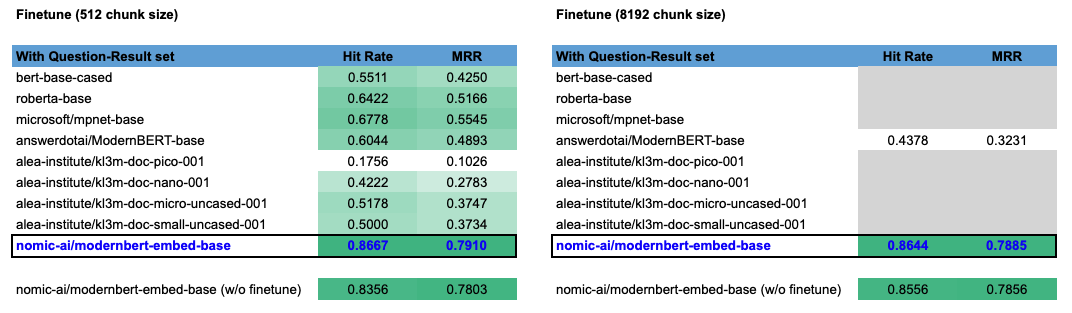
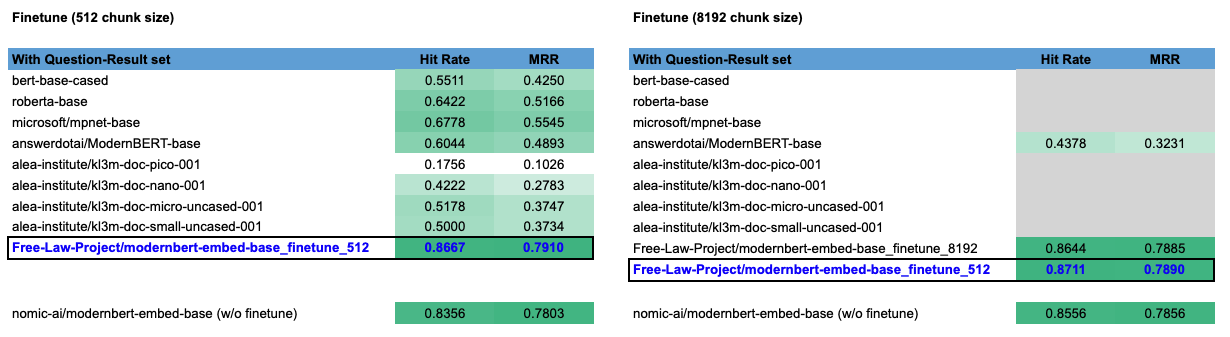
update_finetune_doc

diff --git a/README.md b/README.md
@@ -1,5 +1,5 @@
 # CourtListener Semantic Search Documentation
-As of March 3rd, 2025
+As of March 5th, 2025
 
 ## Foreword
 This project is the result of community effort within the Free Law Project and the broader legal community, see [GitHub ticket](https://github.com/freelawproject/courtlistener/issues/4962) for discussions and previous experiments.
@@ -189,9 +189,9 @@ I briefly experimented with finetuning a pretrained encoder model for our task. 
 3. With 8192 context window, all models were trained for 2 epochs with batch_size of 2 and reduced learning rate compared to the models with 512 context window. The models were trained on an A10 GPU with 24GB GPU RAM in EC2.
 
 #### Model Evaluation
-To ensure the results are comparable to the experiments already conducted above, I used the same 450 test datapoints to evaluate the model performance. It should be noted that in production, short opinions will be removed which should lead to a slight performance increase.
+Below is the summary of results. The `Free-Law-Project/modernbert-embed-base_finetune_xxx` models are what we finetuned on top of the `nomic-ai/modernbert-embed-base` model, which have the best performance and a sizable improvement from finetuning. In fact, the finetuned model with 512 chunk size is now the model with the best performance. It is important to note that due to the chunk size difference, the number of training datapoints for the 512 chunk size model is substantially more than that for the 8192 chunk size model (ie, an opinion with 2000 tokens would have produced ~3 chunks with 512 chunk size vs 1 chunk for 8192 chunk size). We still see a slight improvement in the 8192 chunk size model after finetuning, but more training datapoints is needed to further boost the performance. 
 
-Below is the summary of results. We still see the `nomic-ai/modernbert-embed-base` has the best performance and a sizable improvement from finetuning. In fact, the finetuned model with 512 chunk size is now the model with the best performance. It is important to note that due to the chunk size difference, the number of training datapoints for the 512 chunk size model is substantially more than that for the 8192 chunk size model (ie, an opinion with 2000 tokens would have produced ~3 chunks with 512 chunk size vs 1 chunk for 8192 chunk size). We still see a slight improvement in the 8192 chunk size model after finetuning, but more training datapoints is needed to further boost the performance. 
+To evaluate the best model overall, I also ran eval with the `Free-Law-Project/modernbert-embed-base_finetune_512` model on the eval data chunked to 8192 chunk size. The result is comparable to that of the `Free-Law-Project/modernbert-embed-base_finetune_512` model on the eval data chunked to 512 chunk size.
 
 ![Eval results](img/8.eval.png)
 
